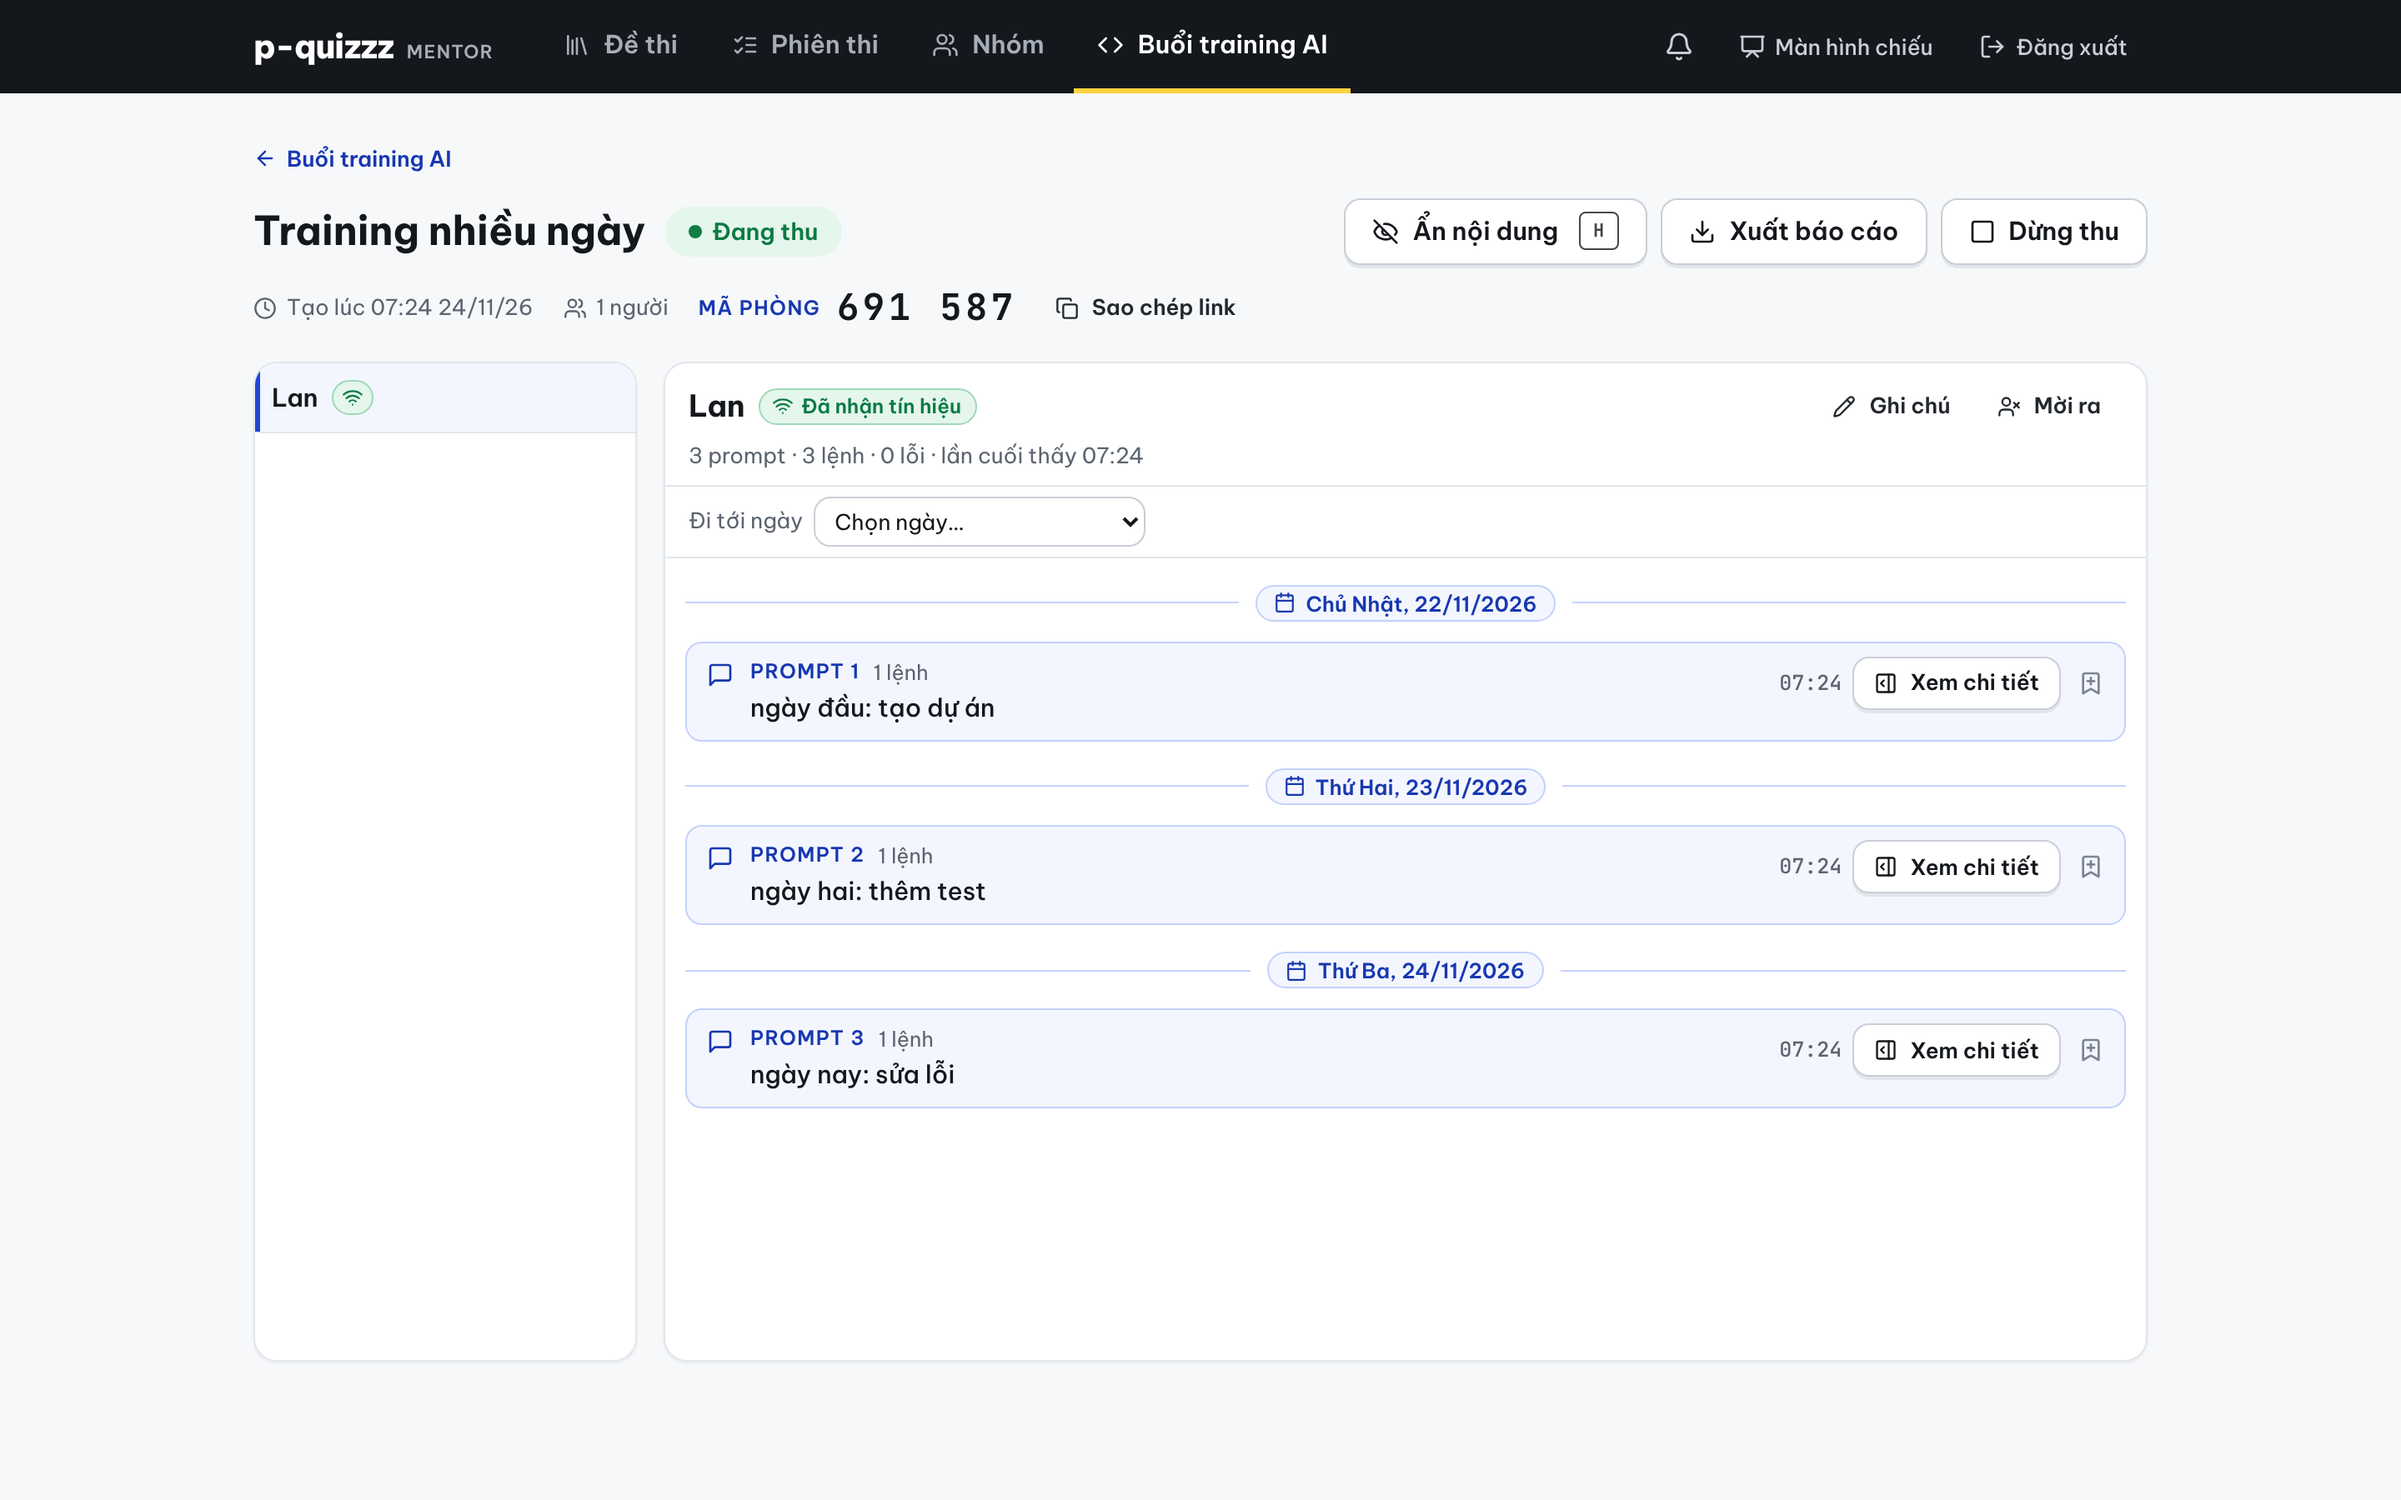
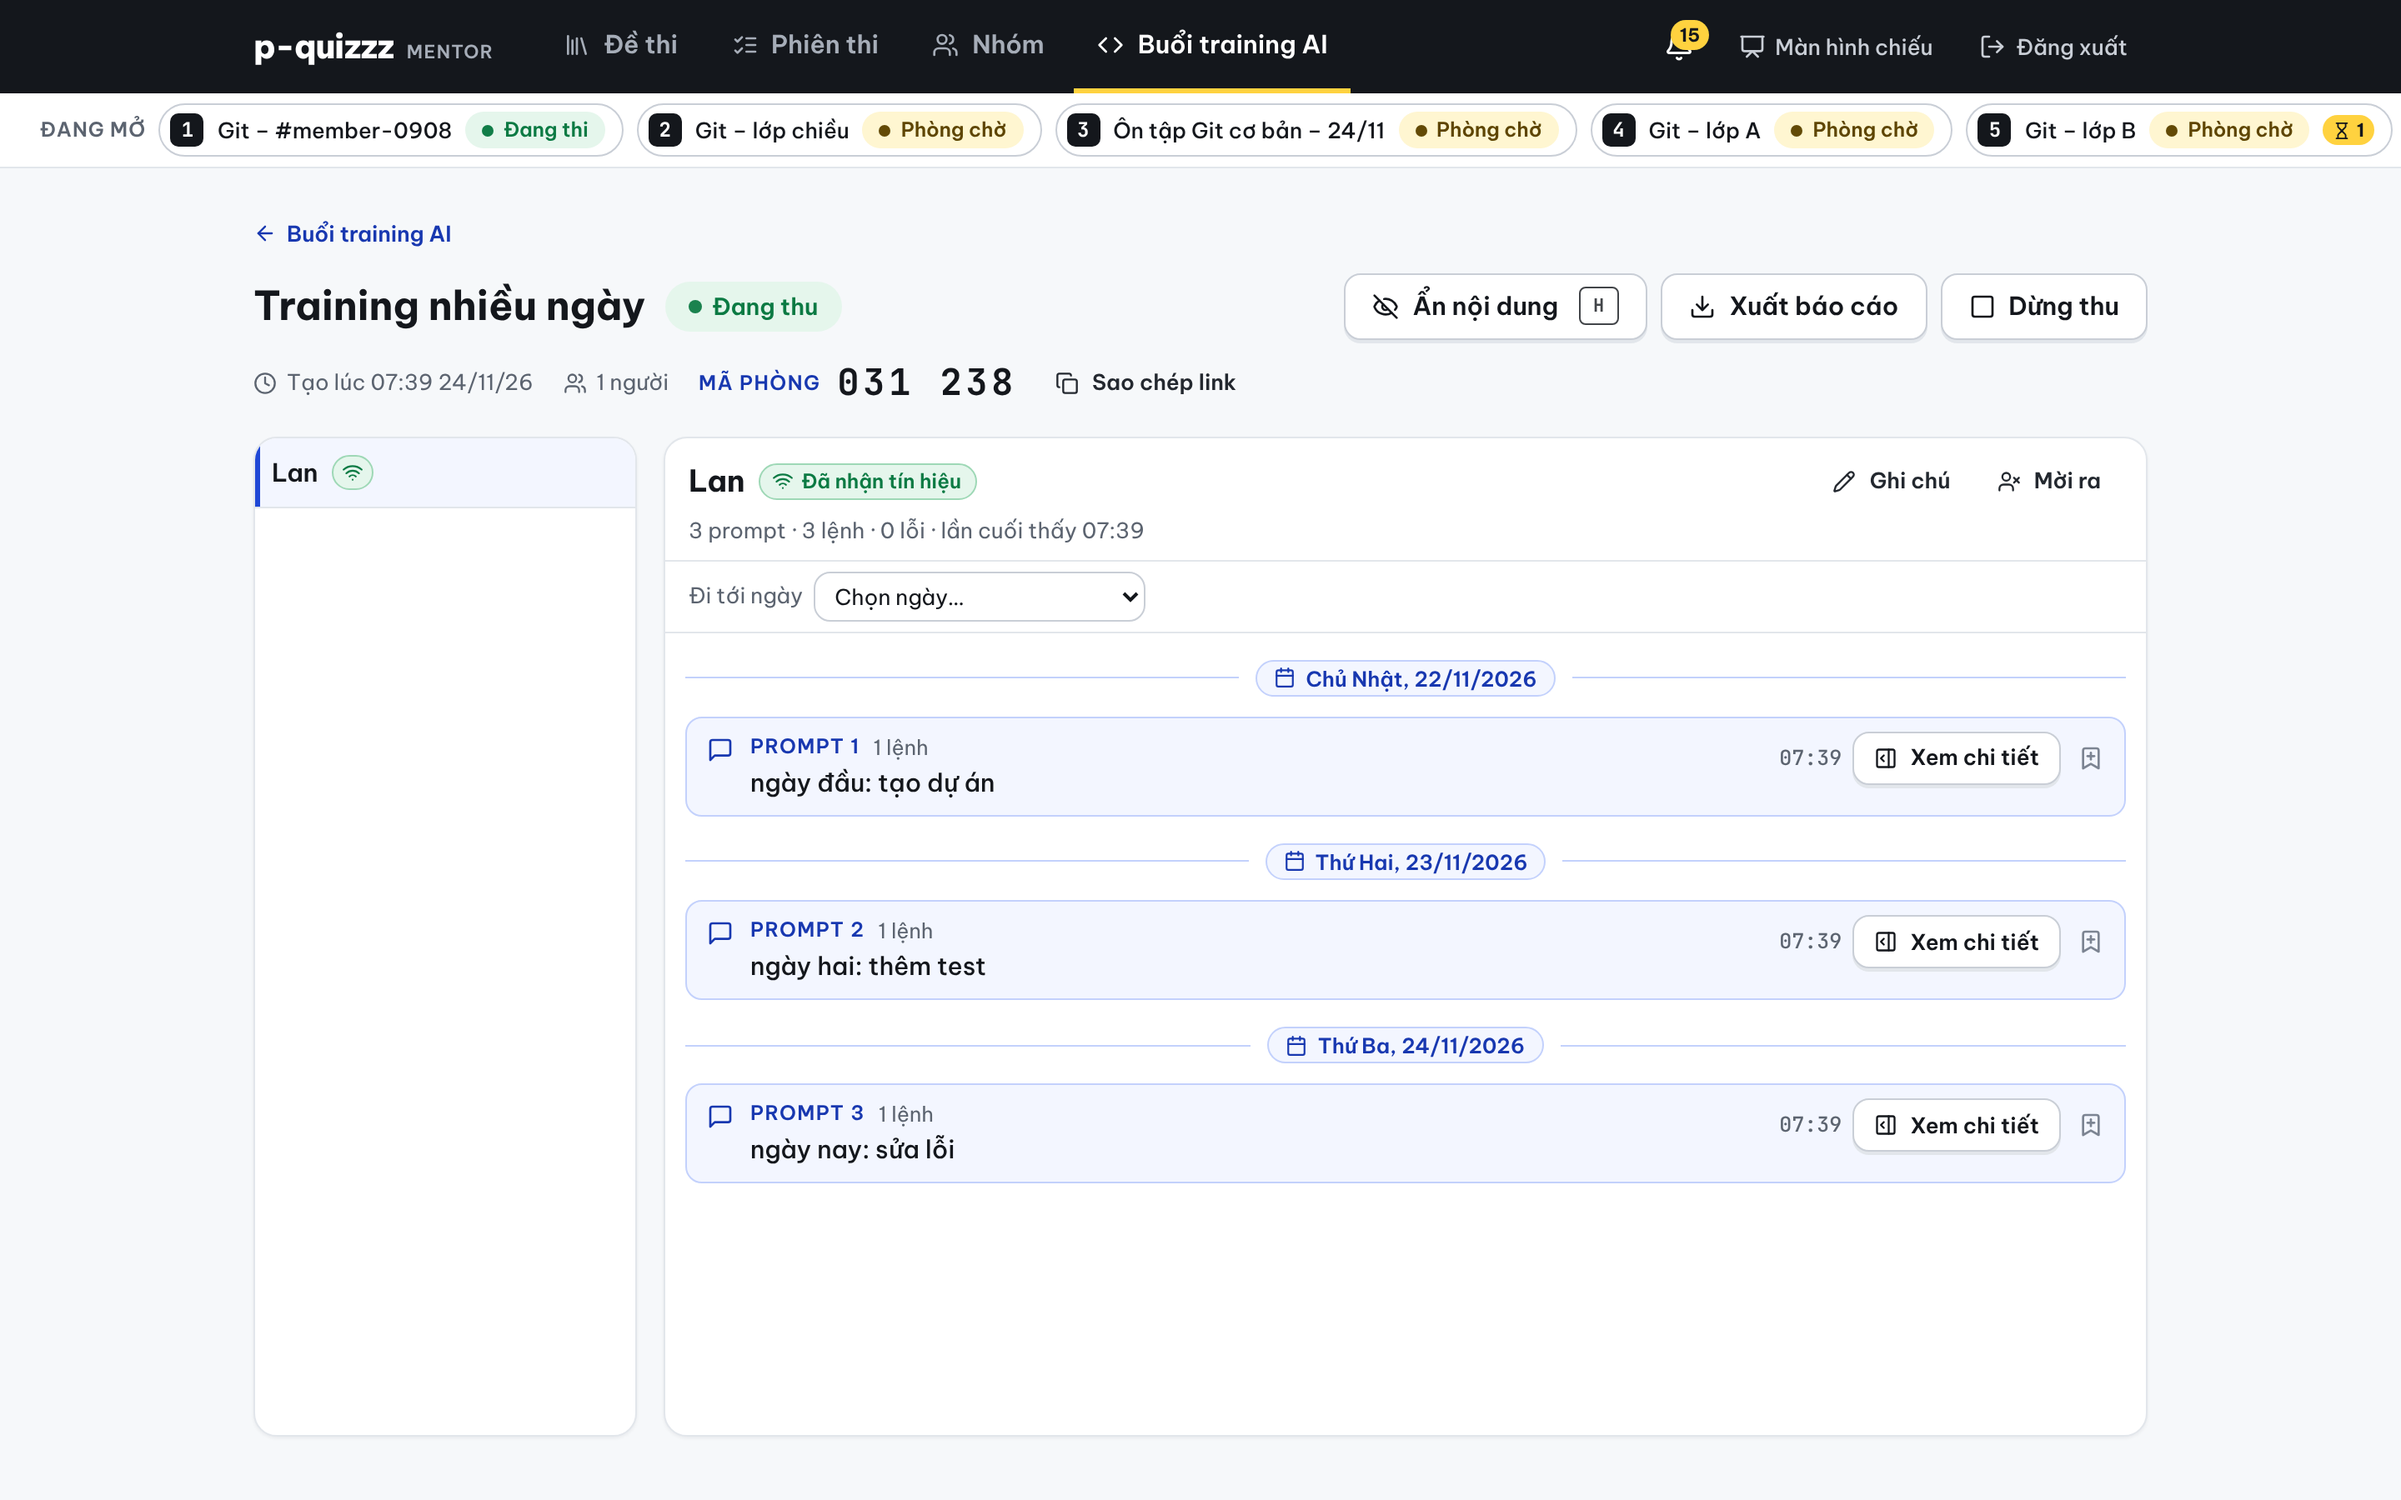
fix(S41): session divider shows the time only; re-shoot S41 screenshots (review round 1)
Claude-Session: https://claude.ai/code/session_015cYECHVDpEokRTSazLt5fb

diff --git a/src/web/features/training-admin/ui/Timeline.tsx b/src/web/features/training-admin/ui/Timeline.tsx
@@ -12,7 +12,7 @@ import { evidenceOf, visibleFlags } from '../domain/flags.js';
 import { decisionText, isAutoMode, modeLabel, noteLines, noticeTitle, sessionTitle } from '../domain/row-text.js';
 import { isNearBottom } from '../domain/scroll.js';
 import { toolLabel } from '../domain/tool-label.js';
-import { dayElementId, dayLabel, dayKeyOf, dayMonth, listDays } from '../domain/days.js';
+import { dayElementId, dayLabel, listDays } from '../domain/days.js';
 import { buildTimeline, type TimelineItem, type TimelineTool } from '../domain/timeline.js';
 import { ConnectionChip, FlagChip, StuckChip, ToolName, visuallyHidden } from './chips.js';
 import { MarkButton } from './TimelineRows.js';
@@ -49,12 +49,12 @@ function DayPicker({ days }: { days: ReturnType<typeof listDays> }) {
   );
 }
 
-function SessionDivider({ index, startedAt, sameDay }: { index: number; startedAt: number; sameDay: boolean }) {
+function SessionDivider({ index, startedAt }: { index: number; startedAt: number }) {
   return (
     <div role="separator" aria-label={`Phiên Claude Code ${index}`} style={{ display: 'flex', alignItems: 'center', gap: 10, margin: '4px 0' }}>
       <span style={{ flex: 1, height: 1, background: 'var(--ink-300)' }} />
       <span style={{ display: 'inline-flex', alignItems: 'center', gap: 6, font: 'var(--type-label)', color: 'var(--text-meta)', textTransform: 'uppercase', letterSpacing: 'var(--tracking-label)' }}>
-        <Icon name="play" size={12} />Phiên Claude Code {index} · mở lúc {sameDay ? '' : `${dayMonth(startedAt)} `}{formatClock(startedAt)}
+        <Icon name="play" size={12} />Phiên Claude Code {index} · mở lúc {formatClock(startedAt)}
       </span>
       <span style={{ flex: 1, height: 1, background: 'var(--ink-300)' }} />
     </div>
@@ -106,7 +106,6 @@ export function Timeline({ member, timeline, panel, hidden, markError, ctrl, can
   const onMark = (id: number) => void ctrl.toggleMark(id);
   const items: TimelineItem[] = hidden ? [] : buildTimeline(timeline.events, { memberStuck: member.stuck });
   const days = hidden || timeline.phase === 'loading' || timeline.phase === 'error' ? [] : listDays(timeline.events);
-  let shownDay = '';
   const flags = timeline.flags.filter(f => visibleFlags({ flags: [f.code], stuck: member.stuck }).length > 0).map(f => ({ code: f.code, ids: evidenceOf(f, timeline.events) })).filter(f => f.ids.length > 0);
 
   // Follow the end when the controller says so (first load, or new lines while the mentor is at the end).
@@ -176,8 +175,8 @@ export function Timeline({ member, timeline, panel, hidden, markError, ctrl, can
         ) : (
           <>
             {items.map(item => {
-              if (item.kind === 'day') { shownDay = item.dayKey; return <DayDivider key={item.key} dayKey={item.dayKey} startedAt={item.startedAt} />; }
-              if (item.kind === 'session') return <SessionDivider key={item.key} index={item.index} startedAt={item.startedAt} sameDay={dayKeyOf(item.startedAt) === shownDay} />;
+              if (item.kind === 'day') return <DayDivider key={item.key} dayKey={item.dayKey} startedAt={item.startedAt} />;
+              if (item.kind === 'session') return <SessionDivider key={item.key} index={item.index} startedAt={item.startedAt} />;
               const shown = item.tools.filter(t => t.event.kind === 'tool');
               const detail: Detail | null = item.tools.length > 0 ? { commands: shown.length, failed: shown.filter(t => t.event.ok === false).length, onOpen: () => ctrl.openTurn(item.key) } : null;
               return <PromptBlock key={item.key} event={item.prompt} number={item.promptNumber} focused={item.prompt !== null && timeline.focusId === item.prompt.id} onMark={onMark} detail={detail} />;
